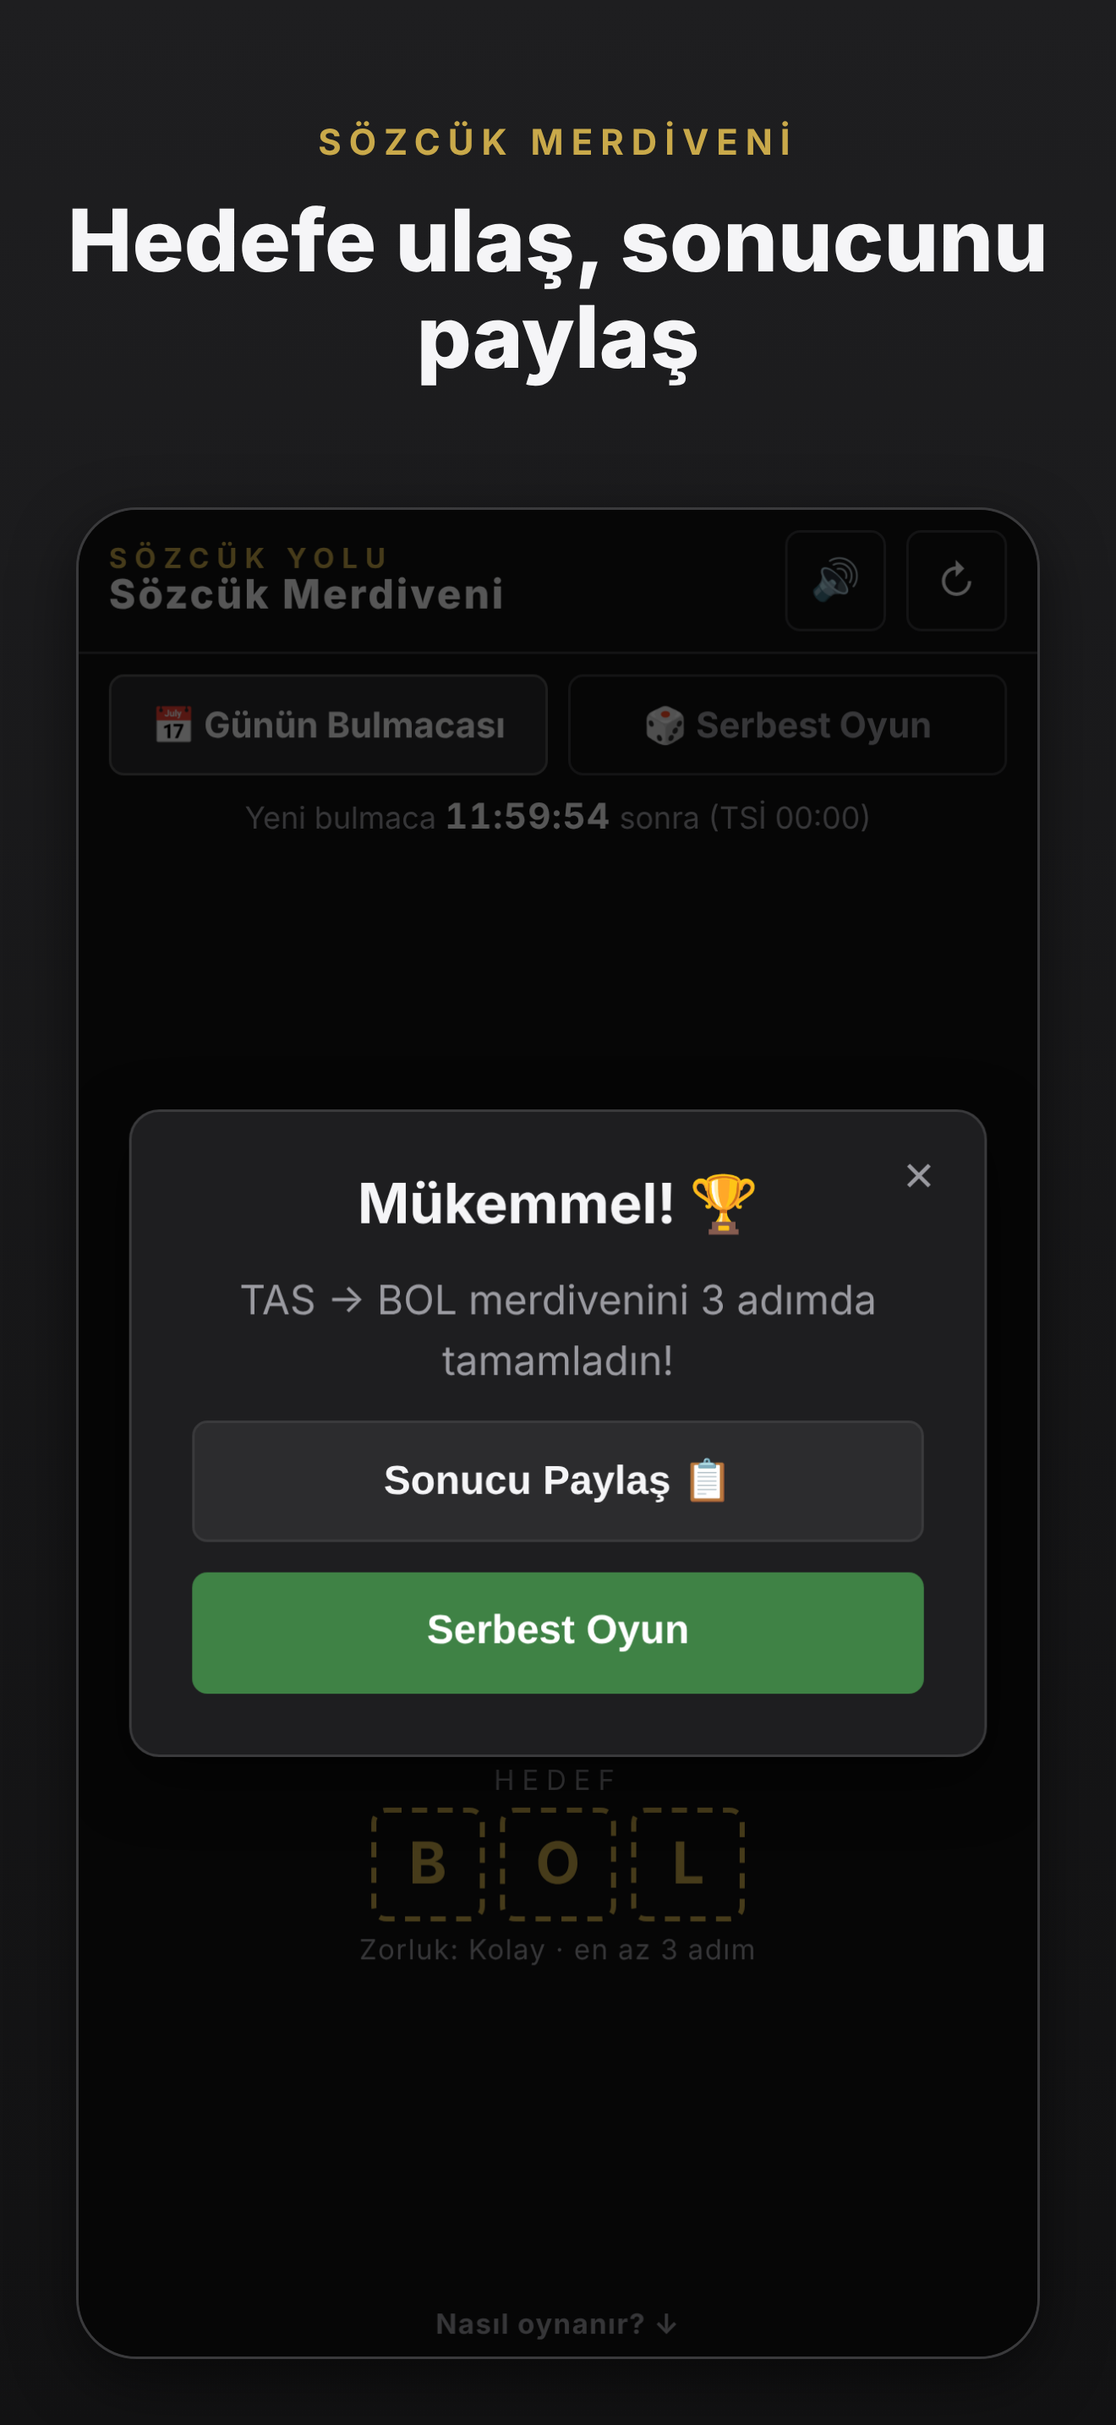
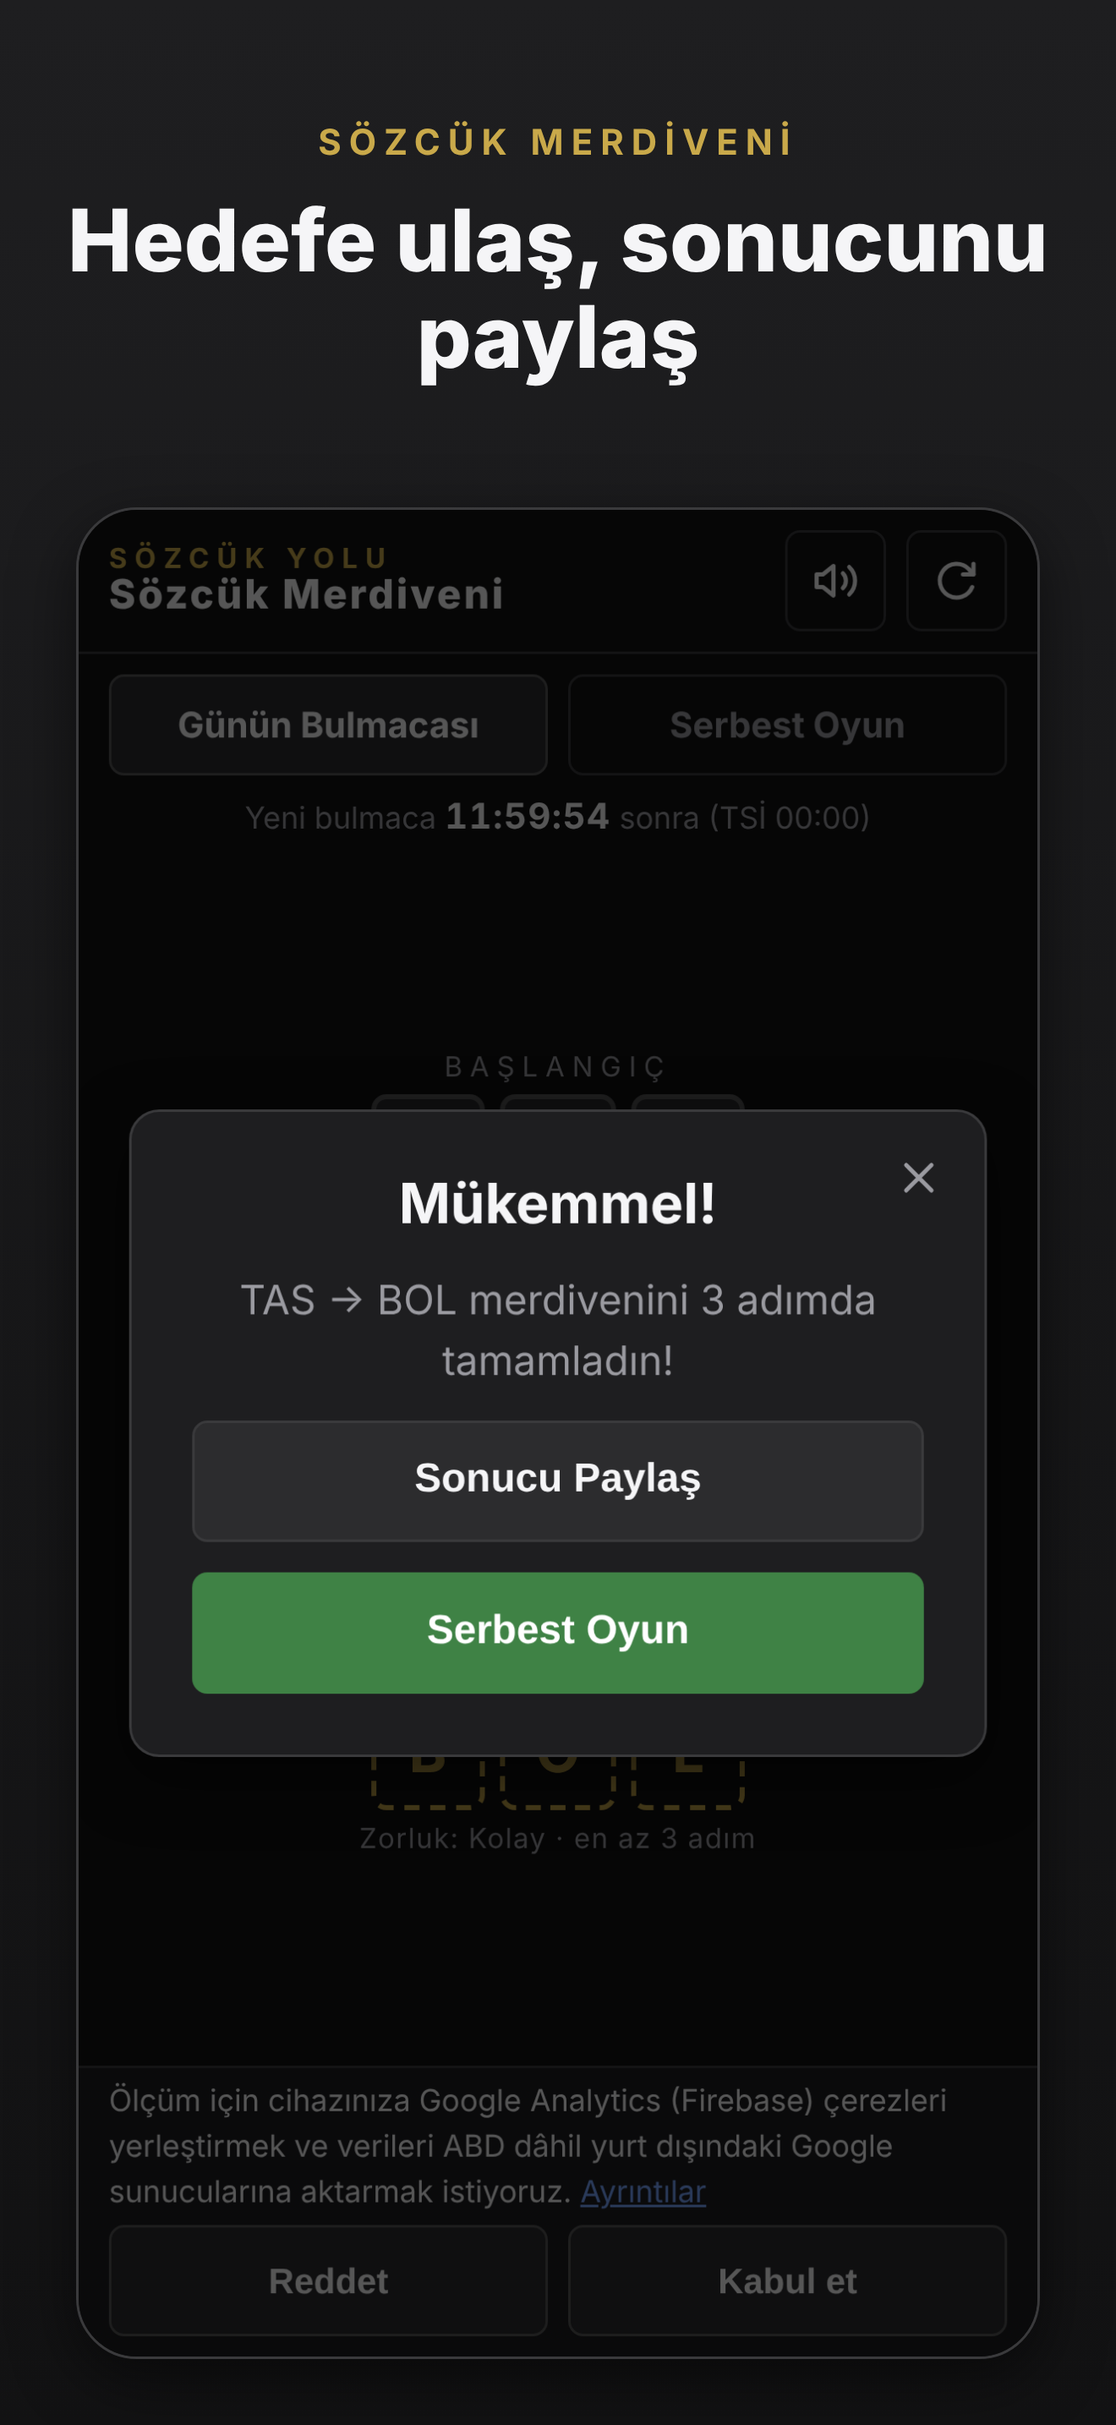
Arayüzde emoji yok: ikonlar satır içi SVG
Ses, yenile, kapat ve sil ikonları currentColor kullanan elle yazılmış
SVG'ler oldu; ses düğmesi durumu .muted sınıfıyla değiştirir. Sekme,
başlık, bildirim ve paylaşım başlığındaki süs emojileri kaldırıldı.
Paylaşılan sonuç ızgarası (🟩⬜) ve düzyazıdaki oklar kaldı.

Kural ekip/tasarim-sistemi.md'ye yazıldı; test_veri.py site dosyalarında
emoji/simge karakterini yakalar, duman testi ikonları ve ses düğmesini
dener. Mağaza görselleri yeniden üretildi.

Claude-Session: https://claude.ai/code/session_01C8YUUGzBwuF5YnZnuwjbBR

diff --git a/index.html b/index.html
@@ -89,17 +89,23 @@
     </div>
     <div class="header-actions">
       <!-- Ses aç/kapat: app.js -> muteGame() fonksiyonuna bağlı -->
-      <button class="icon-btn" id="btnMute" type="button" aria-label="Sesi aç/kapat">🔊</button>
+      <button class="icon-btn" id="btnMute" type="button" aria-label="Sesi aç/kapat">
+        <!-- İkisi de sayfada; app.js düğmeye .muted ekleyip çıkarır -->
+        <svg class="icon icon-sound-on" viewBox="0 0 24 24" fill="none" stroke="currentColor" stroke-width="2" stroke-linecap="round" stroke-linejoin="round" aria-hidden="true" focusable="false"><path d="M11 5 6 9H3v6h3l5 4z"/><path d="M15.5 8.5a5 5 0 0 1 0 7M18.5 5.5a9 9 0 0 1 0 13"/></svg>
+        <svg class="icon icon-sound-off" viewBox="0 0 24 24" fill="none" stroke="currentColor" stroke-width="2" stroke-linecap="round" stroke-linejoin="round" aria-hidden="true" focusable="false"><path d="M11 5 6 9H3v6h3l5 4z"/><path d="m16 9 6 6m0-6-6 6"/></svg>
+      </button>
       <!-- Yeni oyun: app.js -> showInterstitialAd() tetikler, sonra oyunu sıfırlar -->
-      <button class="icon-btn" id="btnRestart" type="button" aria-label="Yeni oyun">↻</button>
+      <button class="icon-btn" id="btnRestart" type="button" aria-label="Yeni oyun">
+        <svg class="icon" viewBox="0 0 24 24" fill="none" stroke="currentColor" stroke-width="2" stroke-linecap="round" stroke-linejoin="round" aria-hidden="true" focusable="false"><path d="M19.4 15a8 8 0 1 1-1.7-8.6L20 9"/><path d="M20 4v5h-5"/></svg>
+      </button>
     </div>
   </header>
 
   <!-- ======================= MOD SEKMELERİ ======================= -->
   <!-- Günlük: herkese aynı, güne göre belirlenen bulmaca. Serbest: rastgele. -->
   <nav class="mode-tabs" aria-label="Oyun modu">
-    <button class="mode-tab active" id="tabDaily" type="button">📅 Günün Bulmacası</button>
-    <button class="mode-tab" id="tabFree" type="button">🎲 Serbest Oyun</button>
+    <button class="mode-tab active" id="tabDaily" type="button">Günün Bulmacası</button>
+    <button class="mode-tab" id="tabFree" type="button">Serbest Oyun</button>
   </nav>
 
   <!-- Serbest oyun ayarları: zorluk + kelime uzunluğu. Yalnızca Serbest
@@ -130,8 +136,8 @@
     <!-- Günlük çözülünce görünür: cevaplar tahtada kalır, modal örtmez.
          Paylaşım burada erişilebilir olsun diye küçük buton eklendi. -->
     <div class="daily-solved hidden" id="dailySolved">
-      Bugünkü bulmaca çözüldü ✅
-      <button class="mini-btn" id="btnDailyShare" type="button">Sonucu paylaş 📋</button>
+      Bugünkü bulmaca çözüldü
+      <button class="mini-btn" id="btnDailyShare" type="button">Sonucu paylaş</button>
     </div>
     Yeni bulmaca <strong id="dailyCountdown">--:--:--</strong> sonra
     <span class="tz-note">(TSİ 00:00)</span>
@@ -240,9 +246,9 @@
 
   <h3>Oyun Modları</h3>
   <ul>
-    <li><strong>📅 Günün Bulmacası:</strong> Herkese aynı bulmaca gelir, her
+    <li><strong>Günün Bulmacası:</strong> Herkese aynı bulmaca gelir, her
     gün yenilenir. Çözünce sonucunu emoji tablosuyla paylaşabilirsiniz.</li>
-    <li><strong>🎲 Serbest Oyun:</strong> İstediğiniz kadar bulmaca çözersiniz.
+    <li><strong>Serbest Oyun:</strong> İstediğiniz kadar bulmaca çözersiniz.
     <strong>Zorluk</strong> (Kolay / Orta / Zor) ve <strong>uzunluk</strong>
     (3 / 4 / 5 harf) düğmeleriyle bulmacaları kendinize göre ayarlarsınız;
     seçimleriniz hatırlanır, istediğiniz an değiştirebilirsiniz.</li>
@@ -272,14 +278,19 @@
   <a href="#cerez-tercihi">Çerez Tercihleri</a>
 </nav>
 
+  <!-- Ekran klavyesindeki "Sil" tuşunun ikonu; app.js buildKeyboard() kopyalar -->
+  <template id="iconBackspace"><svg class="icon" viewBox="0 0 24 24" fill="none" stroke="currentColor" stroke-width="2" stroke-linecap="round" stroke-linejoin="round" aria-hidden="true" focusable="false"><path d="M21 5H9l-6 7 6 7h12z"/><path d="m17 9.5-5 5m0-5 5 5"/></svg></template>
+
   <!-- ======================= BAŞARI MODALI ======================= -->
   <div class="modal-overlay hidden" id="modal" role="dialog" aria-modal="true" aria-labelledby="modalTitle" aria-hidden="true">
     <div class="modal">
-      <button class="modal-close" id="btnCloseModal" type="button" aria-label="Kapat">✕</button>
-      <h2 id="modalTitle">Tebrikler! 🎉</h2>
+      <button class="modal-close" id="btnCloseModal" type="button" aria-label="Kapat">
+        <svg class="icon" viewBox="0 0 24 24" fill="none" stroke="currentColor" stroke-width="2" stroke-linecap="round" stroke-linejoin="round" aria-hidden="true" focusable="false"><path d="m6 6 12 12m0-12L6 18"/></svg>
+      </button>
+      <h2 id="modalTitle">Tebrikler!</h2>
       <p id="modalText"></p>
-      <!-- Wordle tarzı emoji ızgarasını panoya kopyalar / paylaşım menüsü açar -->
-      <button class="btn-secondary" id="btnShare" type="button">Sonucu Paylaş 📋</button>
+      <!-- Wordle tarzı sonuç ızgarasını panoya kopyalar / paylaşım menüsü açar -->
+      <button class="btn-secondary" id="btnShare" type="button">Sonucu Paylaş</button>
       <button class="btn-primary" id="btnNewGame" type="button">Yeni Oyun</button>
     </div>
   </div>

diff --git a/app.js b/app.js
@@ -46,7 +46,7 @@ const AudioFX = (() => {
 function muteGame(mute) {
   AudioFX.setMuted(mute);
   const btn = document.getElementById("btnMute");
-  if (btn) btn.textContent = mute ? "🔇" : "🔊";
+  if (btn) btn.classList.toggle("muted", mute); // ikon değişimi: style.css .icon-sound-*
 }
 
 // Oyun kazanıldığında ve "Yeni Oyun"da tetiklenir.
@@ -636,12 +636,12 @@ class WordLadder {
     const perfect = this.optimal && steps === this.optimal;
 
     if (oncedenCozuldu) {
-      this.el.modalTitle.textContent = "Bugünkü bulmaca çözüldü ✅";
+      this.el.modalTitle.textContent = "Bugünkü bulmaca çözüldü";
       this.el.modalText.textContent =
         `${this.startWord} → ${this.targetWord} merdivenini ${steps} adımda tamamladın. ` +
         `Yeni bulmaca ${this.kalanSureMetni()} sonra!`;
     } else {
-      this.el.modalTitle.textContent = perfect ? "Mükemmel! 🏆" : "Tebrikler! 🎉";
+      this.el.modalTitle.textContent = perfect ? "Mükemmel!" : "Tebrikler!";
       this.el.modalText.textContent =
         `${this.startWord} → ${this.targetWord} merdivenini ${steps} adımda tamamladın!` +
         (this.optimal && !perfect ? ` (En iyisi: ${this.optimal} adım)` : "");
@@ -658,20 +658,19 @@ class WordLadder {
   async share() {
     if (!this.lastResult) return;
     const { steps, grid } = this.lastResult;
-    const perfect = this.optimal && steps === this.optimal;
 
     // Analitik: paylaşım (viral büyümenin en önemli sinyali)
     window.trackEvent?.("result_shared", { mode: this.mode, length: this.len, steps });
 
     const baslik = this.mode === "daily"
-      ? `Sözcük Merdiveni #${this.dayNumber()} 📅`
-      : "Sözcük Merdiveni 🪜";
+      ? `Sözcük Merdiveni #${this.dayNumber()}`
+      : "Sözcük Merdiveni";
     const adres = location.href.split(/[?#]/)[0]; // Yayında alan adınız görünür
 
     const metin = [
       baslik,
       `${this.startWord} → ${this.targetWord} · ${steps} adım` +
-        (this.optimal ? ` (en az ${this.optimal})` : "") + (perfect ? " 🏆" : ""),
+        (this.optimal ? ` (en az ${this.optimal})` : ""),
       "",
       grid,
       "",
@@ -684,7 +683,7 @@ class WordLadder {
       catch (_) { /* kullanıcı paylaşımı iptal etti */ }
     } else {
       const ok = await this.copyToClipboard(metin);
-      this.showToast(ok ? "Panoya kopyalandı! 📋" : "Kopyalanamadı!", ok);
+      this.showToast(ok ? "Panoya kopyalandı!" : "Kopyalanamadı!", ok);
     }
   }
 
@@ -725,7 +724,7 @@ class WordLadder {
         btn.className = "key";
         btn.dataset.key = k;
         if (k === "ENTER") { btn.classList.add("wide"); btn.textContent = "GİR"; }
-        else if (k === "BACK") { btn.classList.add("wide"); btn.textContent = "⌫"; btn.setAttribute("aria-label", "Sil"); }
+        else if (k === "BACK") { btn.classList.add("wide"); btn.append(document.getElementById("iconBackspace").content.cloneNode(true)); btn.setAttribute("aria-label", "Sil"); }
         else btn.textContent = k;
         row.appendChild(btn);
       });
@@ -809,7 +808,7 @@ class WordLadder {
       showInterstitialAd(() => this.newGame("free"));
     });
 
-    // Başlıktaki ↻: aktif modu sıfırlar (günlükte aynı bulmacayı baştan açar)
+    // Başlıktaki yenile düğmesi: aktif modu sıfırlar (günlükte aynı bulmacayı baştan açar)
     this.el.btnRestart.addEventListener("click", (e) => {
       e.currentTarget.blur();
       showInterstitialAd(() => this.newGame(this.mode));

diff --git a/tools/test_tarayici.js b/tools/test_tarayici.js
@@ -157,6 +157,20 @@ async function main() {
     denetle(!uyarilar.some(u => u.includes("mock sözlük")), "words.json yüklenmedi, mock sözlüğe düşüldü");
     const tusSayisi = await sayfa.locator("#keyboard .key").count();
     denetle(tusSayisi === 31, `ekran klavyesinde ${tusSayisi} tuş var, 31 olmalı (29 harf + GİR + sil)`);
+    // İkonlar satır içi SVG: her ikon düğmesinde tam bir görünür ikon ve erişilebilir ad
+    const gorunurIkon = () => sayfa.evaluate(() =>
+      ["#btnMute", "#btnRestart", "#keyboard .key[data-key=BACK]"].map((sec) => {
+        const d = document.querySelector(sec);
+        const g = [...d.querySelectorAll("svg")].filter((s) => s.getBoundingClientRect().width > 0);
+        return { sec, ad: d.getAttribute("aria-label"), sinif: g.map((s) => s.getAttribute("class")).join("|") };
+      }));
+    const ikonlar = await gorunurIkon();
+    for (const i of ikonlar) denetle(!!i.ad && i.sinif.startsWith("icon") && !i.sinif.includes("|"), `${i.sec}: tek görünür SVG ikon ve aria-label olmalı (${i.sinif})`);
+    await sayfa.click("#btnMute");
+    const sessiz = (await gorunurIkon())[0].sinif;
+    denetle(sessiz.includes("icon-sound-off") && sessiz !== ikonlar[0].sinif, `ses kapatılınca ikon değişmedi (${sessiz})`);
+    await sayfa.click("#btnMute");
+    denetle((await gorunurIkon())[0].sinif === ikonlar[0].sinif, "ses açılınca ikon geri dönmedi");
 
     /* 2) Günün bulmacası */
     console.log("2. Günün bulmacası");

diff --git a/style.css b/style.css
@@ -68,6 +68,7 @@
   --ctl-md:     40px;    /* Görünür boy: ikon düğmesi, mod sekmesi */
   --ctl-sm:     34px;    /* Görünür boy: zorluk / uzunluk düğmesi */
   --ctl-xs:     28px;    /* Görünür boy: küçük düğme (Sonucu paylaş) */
+  --icon-size:  20px;    /* Satır içi SVG ikon */
   --btn-height: 48px;
   --key-height: 52px;
   --tile-size:  clamp(42px, 12vw, 58px);
@@ -176,6 +177,11 @@ body {
   transition: background var(--dur-base);
 }
 .icon-btn:active { background: var(--surface-2); }
+
+/* Satır içi SVG ikon: rengi düğmenin metin renginden (currentColor) alır */
+.icon { display: block; width: var(--icon-size); height: var(--icon-size); margin: auto; }
+.icon-sound-off, .muted .icon-sound-on { display: none; }
+.muted .icon-sound-off { display: block; }
 
 /* ---------- Dokunma alanı ----------
    Kabuk 100dvh sabit: küçük telefonda her piksel oyun alanından gider. Bu

diff --git a/tools/magaza_gorsel.js b/tools/magaza_gorsel.js
@@ -14,7 +14,7 @@
  *
  * Kullanım:  node tools/magaza_gorsel.js [YYYY-AA-GG]
  *
- * Mağazaya gidecek son görselleri macOS'ta üretin: yazı tipi ve emojiler
+ * Mağazaya gidecek son görselleri macOS'ta üretin: yazı tipi
  * iPhone'dakiyle aynı çıkar. Linux çıktısı yerleşim denetimi içindir.
  * ========================================================= */
 "use strict";

diff --git a/tools/test_veri.py b/tools/test_veri.py
@@ -27,6 +27,7 @@ Kullanım:  python3 tools/test_veri.py
 import json
 import re
 import sys
+import unicodedata
 from collections import defaultdict, deque
 from pathlib import Path
 
@@ -42,6 +43,9 @@ PUNYCODE_ALAN = "xn--szckyolu-n4a6d.com"
 # Betik/modül yüklenebilecek dış adresler. Genişletmek güvenlik incelemesi ister.
 IZINLI_BETIK_ALANLARI = {"www.gstatic.com", "pagead2.googlesyndication.com"}
 SITE_DOSYALARI = ("index.html", "gizlilik.html", "app.js")
+# Emoji yasağının istisnaları: düzyazıdaki oklar ve paylaşılan sonuç ızgarası
+IZINLI_SIMGELER = set("→←↓")
+PAYLASIM_IZGARASI = set("🟩⬜")
 # Gerçek gizli bilgi biçimleri. Firebase web apiKey (AIza…) herkese açık
 # olacak şekilde tasarlandığı için listede yok.
 GIZLI_KALIPLAR = {
@@ -397,8 +401,25 @@ def tasarim_testleri():
         denetle(bool(bilgi) and bilgi[:2] == (1320, 2868), f"tools/uygulama/magaza/{yol.name}: 1320×2868 olmalı")
 
 
+def emoji_testleri():
+    """Arayüzde emoji ve simge karakteri yok; ikonlar satır içi SVG'dir
+    (ekip/tasarim-sistemi.md → İkonlar). İstisna: paylaşım ızgarası."""
+    for ad in SITE_DOSYALARI:
+        izinli = IZINLI_SIMGELER | (PAYLASIM_IZGARASI if ad == "app.js" else set())
+        metin = (KOK / ad).read_text(encoding="utf-8")
+        for satir_no, satir in enumerate(metin.splitlines(), 1):
+            # So: emoji ve piktogramlar; Sm ≥ U+2190: oklar; FE0F/200D: emoji birleştiricileri
+            yasak = sorted({h for h in satir if h not in izinli and (
+                unicodedata.category(h) == "So"
+                or (unicodedata.category(h) == "Sm" and h >= "\u2190")
+                or h in "\ufe0f\u200d")})
+            denetle(not yasak, f"{ad}:{satir_no}: emoji/simge karakteri: "
+                    + " ".join(f"{h} (U+{ord(h):04X})" for h in yasak) + " — satır içi SVG kullanın")
+
+
 def main():
     veri_testleri()
+    emoji_testleri()
     site_testleri()
     guvenlik_testleri()
     tasarim_testleri()

diff --git a/ekip/tasarim-sistemi.md b/ekip/tasarim-sistemi.md
@@ -89,7 +89,7 @@ Kalınlık `--fw-bold` (700), `--fw-heavy` (800). Satır yüksekliği `--lh-tigh
 | Grup | Belirteçler |
 |---|---|
 | Boşluk (4 px tabanlı) | `--space-1` 4 · `-1h` 6 · `-2` 8 · `-3` 12 · `-4` 16 · `-5` 20 · `-6` 24 · `-14` 56 |
-| Ölçü | `--tap-min` 44 (dokunma alanı) · görünür boy `--ctl-md` 40 · `--ctl-sm` 34 · `--ctl-xs` 28 · `--btn-height` 48 · `--key-height` 52 (geniş ekranda 58) · `--tile-size` · `--gap` |
+| Ölçü | `--tap-min` 44 (dokunma alanı) · görünür boy `--ctl-md` 40 · `--ctl-sm` 34 · `--ctl-xs` 28 · `--icon-size` 20 (satır içi SVG ikon) · `--btn-height` 48 · `--key-height` 52 (geniş ekranda 58) · `--tile-size` · `--gap` |
 | Köşe | `--radius` 6 · `--radius-md` 8 · `--radius-lg` 12 |
 | Gölge | `--shadow-md` (bildirim ve pencere; başka yerde gölge yok) |
 | Süre | `--dur-fast` 0,1 s · `--dur-base` 0,2 s · `--dur-slow` 0,5 s · `--ease` |
@@ -121,6 +121,26 @@ Kalınlık `--fw-bold` (700), `--fw-heavy` (800). Satır yüksekliği `--lh-tigh
 - Animasyon bilgi taşımaz; `prefers-reduced-motion` açıkken süreler sıfırlanır.
 - Renk tek başına anlam taşımaz: hata hem kırmızı hem yazılı bildirimdir.
 - 390 px genişlikte yatay taşma olmaz (duman testi denetler).
+
+## İkonlar
+
+**Arayüzde emoji yok** — ne ikon ne süs olarak (sekme, düğme, başlık,
+bildirim, paylaşım başlığı). ↻ ✕ ⌫ gibi simge karakterleri de ikon olarak
+kullanılmaz: cihazdan cihaza farklı çizilir, rengi ve boyu denetlenemez.
+
+- İkon satır içi SVG'dir: `class="icon"`, `viewBox="0 0 24 24"`,
+  `stroke="currentColor"`, çizgi kalınlığı 2, `aria-hidden="true"`. Boyu
+  `--icon-size`, rengi düğmenin metin rengi. Elle yazılır; ikon kütüphanesi,
+  dış dosya ve `style=` yok (iOS paketinin CSP'si satır içi stili reddeder).
+- Adı düğmenin `aria-label`'ı taşır. Durum değişimi sınıfla yapılır
+  (ses düğmesi: `.muted`), metinle değil.
+- `app.js` içinde üretilen öğe ikonu `index.html`'deki `<template>`'ten
+  kopyalar (Sil tuşu: `#iconBackspace`); `innerHTML` yazılmaz.
+- **İstisnalar:** paylaşılan sonuç ızgarası (🟩⬜, yalnızca `app.js`) ve
+  düzyazıdaki oklar (→ ← ↓).
+
+`tools/test_veri.py` `index.html`, `gizlilik.html` ve `app.js` içinde bunların
+dışındaki her emoji ve simge karakterini yakalar.
 
 ## Simgeler ve uygulama görselleri
 
@@ -162,8 +182,8 @@ verir.
 - Ekran sahte çizilmez; reklam yer tutucuları gizlenir.
 - Başlık kısa, sade Türkçe ve doğru: oyunun yapmadığı şey, sayı, ödül,
   "en iyi" gibi iddia yazılmaz. Başlıklar betikteki `EKRANLAR` listesindedir.
-- Mağazaya gidecek son görseller macOS'ta üretilir (yazı tipi ve emojiler
-  iPhone'dakiyle aynı çıkar). Depodaki Linux çıktısı yerleşim örneğidir.
+- Mağazaya gidecek son görseller macOS'ta üretilir (yazı tipi iPhone'dakiyle
+  aynı çıkar). Depodaki Linux çıktısı yerleşim örneğidir.
 
 ## Site ve uygulama ortak dili
 
